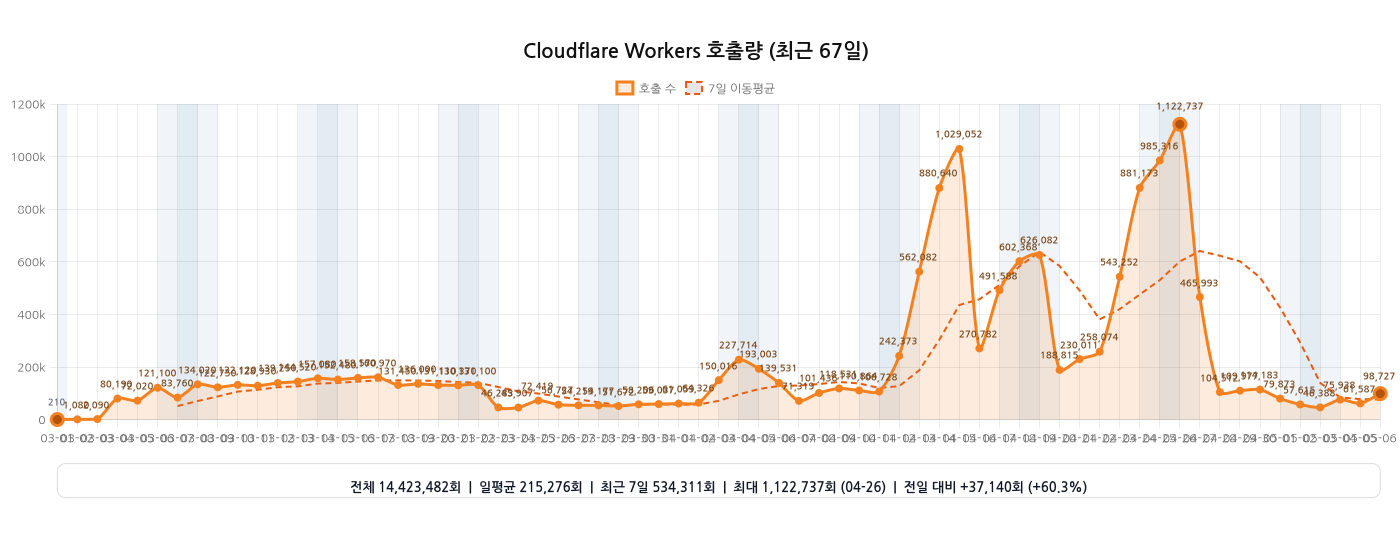
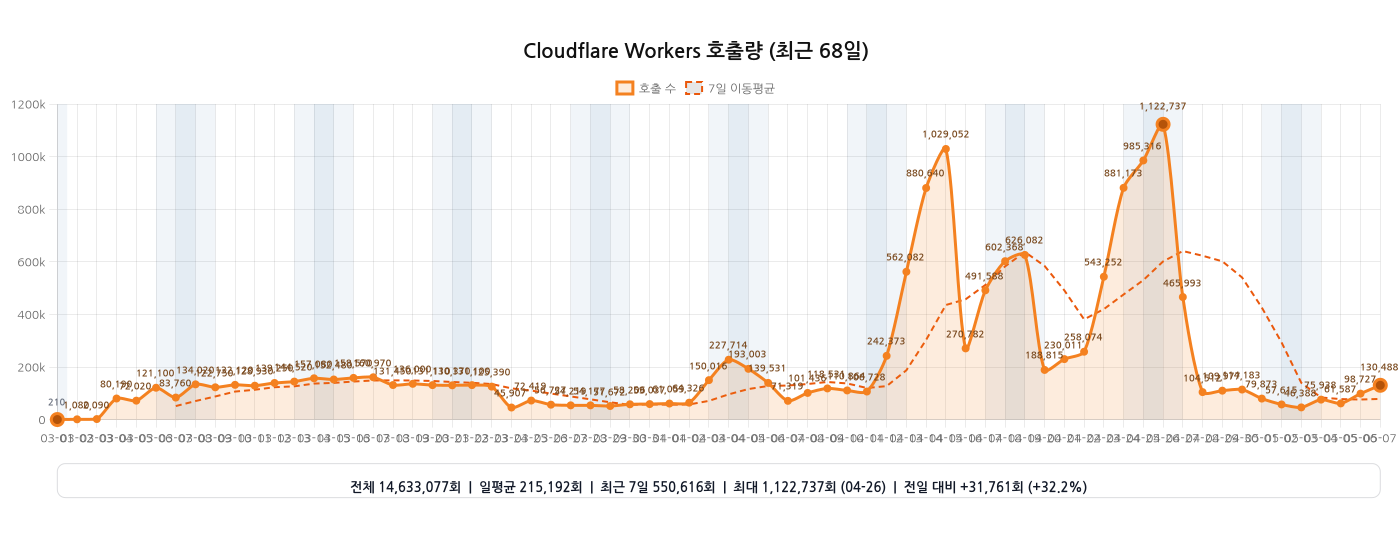
chore: 워커 호출량 그래프 자동 갱신

diff --git a/README.md b/README.md
@@ -18,11 +18,11 @@
 [![Coverage](https://github.com/hmmhmmhm/daiso-mcp/actions/workflows/coverage.yml/badge.svg?branch=main)](https://github.com/hmmhmmhm/daiso-mcp/actions/workflows/coverage.yml)
 
 <!-- WORKERS_INVOCATIONS_CHART:START -->
-<h3>Cloudflare Workers 호출량 (2026-03-01 ~ 2026-05-06, 67일)</h3>
+<h3>Cloudflare Workers 호출량 (2026-03-01 ~ 2026-05-07, 68일)</h3>
 
-<img src="./assets/analytics/workers-invocations.png?v=2026-05-06T16:06:32.500Z" alt="Cloudflare Workers 호출량 그래프 (2026-03-01 ~ 2026-05-06)" width="100%">
+<img src="./assets/analytics/workers-invocations.png?v=2026-05-07T16:06:35.492Z" alt="Cloudflare Workers 호출량 그래프 (2026-03-01 ~ 2026-05-07)" width="100%">
 
-<sub>기준 워커: <code>daiso-mcp</code> · 마지막 갱신: 2026-05-07 01:06 KST</sub>
+<sub>기준 워커: <code>daiso-mcp</code> · 마지막 갱신: 2026-05-08 01:06 KST</sub>
 
 <!-- WORKERS_INVOCATIONS_CHART:END -->
 
